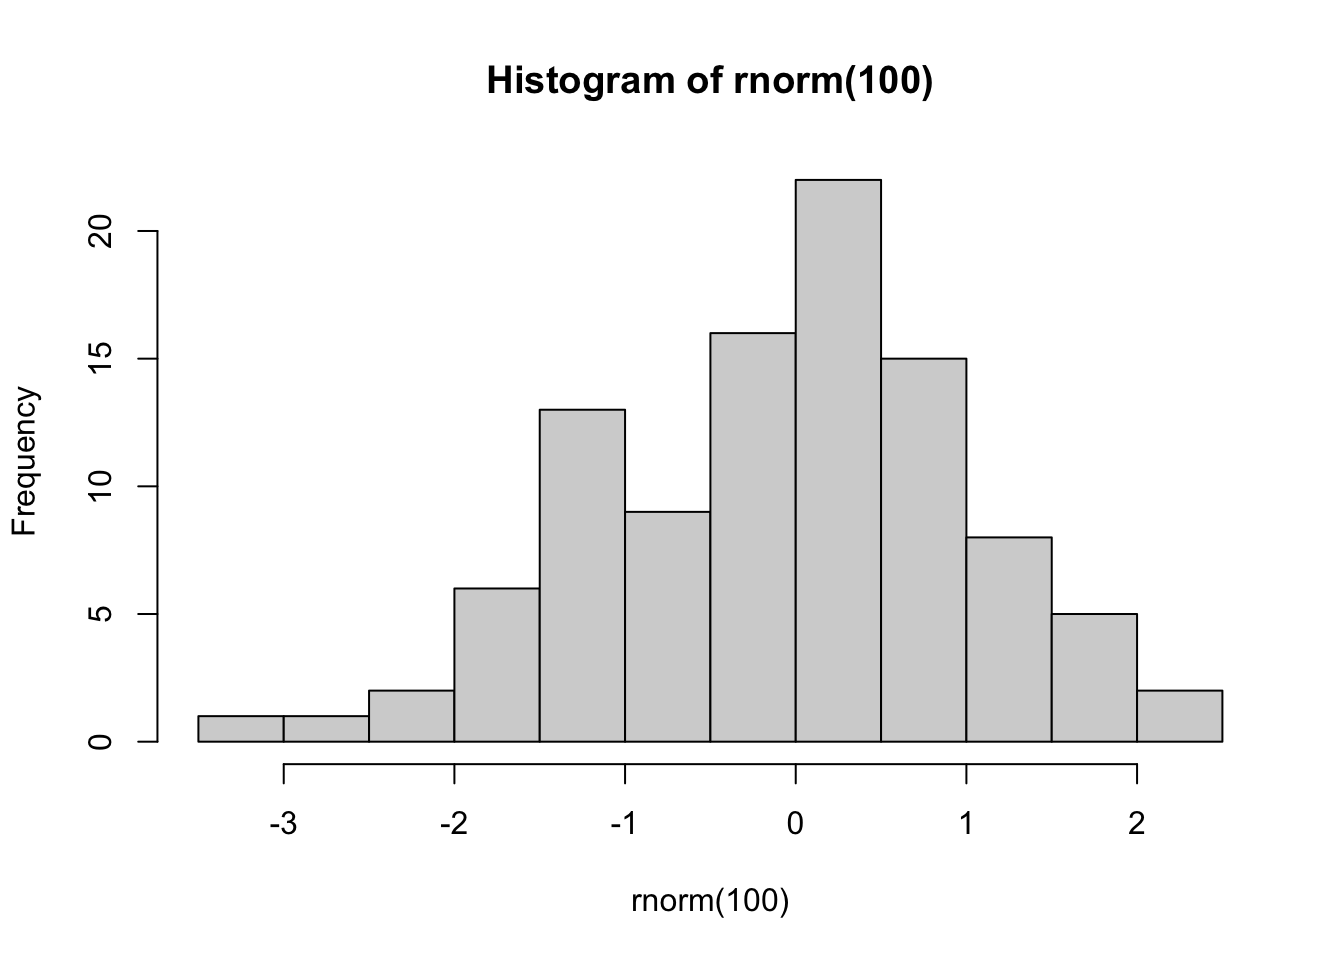
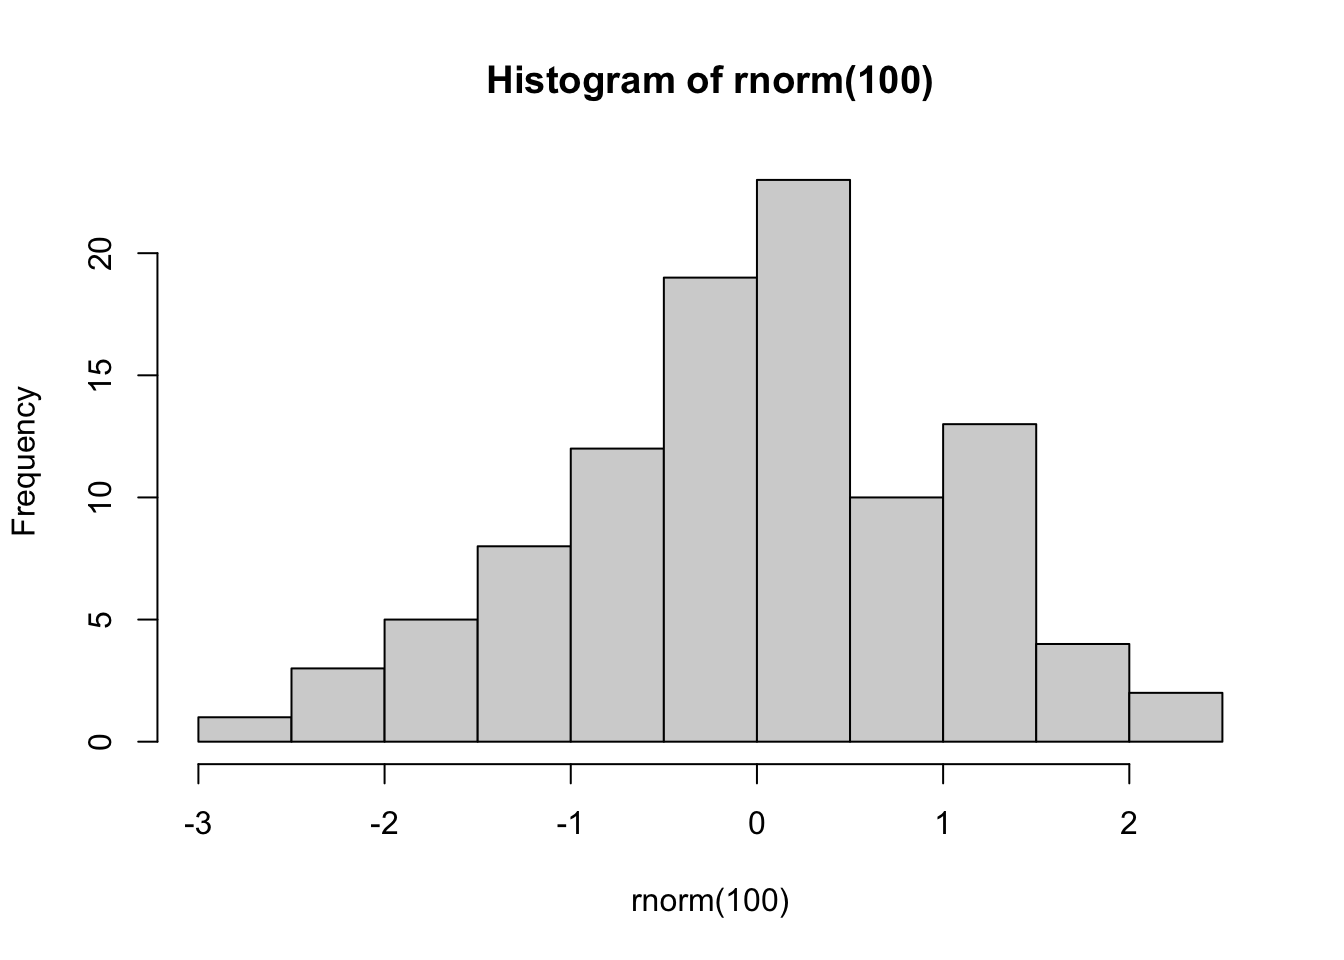
final

diff --git a/Quarto.html b/Quarto.html
@@ -124,23 +124,23 @@ pre > code.sourceCode > span > a:first-child::before { text-decoration: underlin
 <span id="cb3-7"><a href="#cb3-7" aria-hidden="true" tabindex="-1"></a>        <span class="fu">c</span>(City, Rank, Happiness_levels, Outdoor_activities,</span>
 <span id="cb3-8"><a href="#cb3-8" aria-hidden="true" tabindex="-1"></a>                          YLE))</span></code></pre></div><button title="Copy to Clipboard" class="code-copy-button"><i class="bi"></i></button></div>
 <div class="cell-output-display">
-<div id="gwxykqjqkq" style="padding-left:0px;padding-right:0px;padding-top:10px;padding-bottom:10px;overflow-x:auto;overflow-y:auto;width:auto;height:auto;">
-<style>#gwxykqjqkq table {
+<div id="nafjxvjnsw" style="padding-left:0px;padding-right:0px;padding-top:10px;padding-bottom:10px;overflow-x:auto;overflow-y:auto;width:auto;height:auto;">
+<style>#nafjxvjnsw table {
   font-family: system-ui, 'Segoe UI', Roboto, Helvetica, Arial, sans-serif, 'Apple Color Emoji', 'Segoe UI Emoji', 'Segoe UI Symbol', 'Noto Color Emoji';
   -webkit-font-smoothing: antialiased;
   -moz-osx-font-smoothing: grayscale;
 }
 
-#gwxykqjqkq thead, #gwxykqjqkq tbody, #gwxykqjqkq tfoot, #gwxykqjqkq tr, #gwxykqjqkq td, #gwxykqjqkq th {
+#nafjxvjnsw thead, #nafjxvjnsw tbody, #nafjxvjnsw tfoot, #nafjxvjnsw tr, #nafjxvjnsw td, #nafjxvjnsw th {
   border-style: none;
 }
 
-#gwxykqjqkq p {
+#nafjxvjnsw p {
   margin: 0;
   padding: 0;
 }
 
-#gwxykqjqkq .gt_table {
+#nafjxvjnsw .gt_table {
   display: table;
   border-collapse: collapse;
   line-height: normal;
@@ -166,12 +166,12 @@ pre > code.sourceCode > span > a:first-child::before { text-decoration: underlin
   border-left-color: #D3D3D3;
 }
 
-#gwxykqjqkq .gt_caption {
+#nafjxvjnsw .gt_caption {
   padding-top: 4px;
   padding-bottom: 4px;
 }
 
-#gwxykqjqkq .gt_title {
+#nafjxvjnsw .gt_title {
   color: #333333;
   font-size: 125%;
   font-weight: initial;
@@ -183,7 +183,7 @@ pre > code.sourceCode > span > a:first-child::before { text-decoration: underlin
   border-bottom-width: 0;
 }
 
-#gwxykqjqkq .gt_subtitle {
+#nafjxvjnsw .gt_subtitle {
   color: #333333;
   font-size: 85%;
   font-weight: initial;
@@ -195,7 +195,7 @@ pre > code.sourceCode > span > a:first-child::before { text-decoration: underlin
   border-top-width: 0;
 }
 
-#gwxykqjqkq .gt_heading {
+#nafjxvjnsw .gt_heading {
   background-color: #FFFFFF;
   text-align: center;
   border-bottom-color: #FFFFFF;
@@ -207,13 +207,13 @@ pre > code.sourceCode > span > a:first-child::before { text-decoration: underlin
   border-right-color: #D3D3D3;
 }
 
-#gwxykqjqkq .gt_bottom_border {
+#nafjxvjnsw .gt_bottom_border {
   border-bottom-style: solid;
   border-bottom-width: 2px;
   border-bottom-color: #D3D3D3;
 }
 
-#gwxykqjqkq .gt_col_headings {
+#nafjxvjnsw .gt_col_headings {
   border-top-style: solid;
   border-top-width: 2px;
   border-top-color: #D3D3D3;
@@ -228,7 +228,7 @@ pre > code.sourceCode > span > a:first-child::before { text-decoration: underlin
   border-right-color: #D3D3D3;
 }
 
-#gwxykqjqkq .gt_col_heading {
+#nafjxvjnsw .gt_col_heading {
   color: #333333;
   background-color: #FFFFFF;
   font-size: 100%;
@@ -248,7 +248,7 @@ pre > code.sourceCode > span > a:first-child::before { text-decoration: underlin
   overflow-x: hidden;
 }
 
-#gwxykqjqkq .gt_column_spanner_outer {
+#nafjxvjnsw .gt_column_spanner_outer {
   color: #333333;
   background-color: #FFFFFF;
   font-size: 100%;
@@ -260,15 +260,15 @@ pre > code.sourceCode > span > a:first-child::before { text-decoration: underlin
   padding-right: 4px;
 }
 
-#gwxykqjqkq .gt_column_spanner_outer:first-child {
+#nafjxvjnsw .gt_column_spanner_outer:first-child {
   padding-left: 0;
 }
 
-#gwxykqjqkq .gt_column_spanner_outer:last-child {
+#nafjxvjnsw .gt_column_spanner_outer:last-child {
   padding-right: 0;
 }
 
-#gwxykqjqkq .gt_column_spanner {
+#nafjxvjnsw .gt_column_spanner {
   border-bottom-style: solid;
   border-bottom-width: 2px;
   border-bottom-color: #D3D3D3;
@@ -280,11 +280,11 @@ pre > code.sourceCode > span > a:first-child::before { text-decoration: underlin
   width: 100%;
 }
 
-#gwxykqjqkq .gt_spanner_row {
+#nafjxvjnsw .gt_spanner_row {
   border-bottom-style: hidden;
 }
 
-#gwxykqjqkq .gt_group_heading {
+#nafjxvjnsw .gt_group_heading {
   padding-top: 8px;
   padding-bottom: 8px;
   padding-left: 5px;
@@ -310,7 +310,7 @@ pre > code.sourceCode > span > a:first-child::before { text-decoration: underlin
   text-align: left;
 }
 
-#gwxykqjqkq .gt_empty_group_heading {
+#nafjxvjnsw .gt_empty_group_heading {
   padding: 0.5px;
   color: #333333;
   background-color: #FFFFFF;
@@ -325,15 +325,15 @@ pre > code.sourceCode > span > a:first-child::before { text-decoration: underlin
   vertical-align: middle;
 }
 
-#gwxykqjqkq .gt_from_md > :first-child {
+#nafjxvjnsw .gt_from_md > :first-child {
   margin-top: 0;
 }
 
-#gwxykqjqkq .gt_from_md > :last-child {
+#nafjxvjnsw .gt_from_md > :last-child {
   margin-bottom: 0;
 }
 
-#gwxykqjqkq .gt_row {
+#nafjxvjnsw .gt_row {
   padding-top: 8px;
   padding-bottom: 8px;
   padding-left: 5px;
@@ -352,7 +352,7 @@ pre > code.sourceCode > span > a:first-child::before { text-decoration: underlin
   overflow-x: hidden;
 }
 
-#gwxykqjqkq .gt_stub {
+#nafjxvjnsw .gt_stub {
   color: #333333;
   background-color: #FFFFFF;
   font-size: 100%;
@@ -365,7 +365,7 @@ pre > code.sourceCode > span > a:first-child::before { text-decoration: underlin
   padding-right: 5px;
 }
 
-#gwxykqjqkq .gt_stub_row_group {
+#nafjxvjnsw .gt_stub_row_group {
   color: #333333;
   background-color: #FFFFFF;
   font-size: 100%;
@@ -379,15 +379,15 @@ pre > code.sourceCode > span > a:first-child::before { text-decoration: underlin
   vertical-align: top;
 }
 
-#gwxykqjqkq .gt_row_group_first td {
+#nafjxvjnsw .gt_row_group_first td {
   border-top-width: 2px;
 }
 
-#gwxykqjqkq .gt_row_group_first th {
+#nafjxvjnsw .gt_row_group_first th {
   border-top-width: 2px;
 }
 
-#gwxykqjqkq .gt_summary_row {
+#nafjxvjnsw .gt_summary_row {
   color: #333333;
   background-color: #FFFFFF;
   text-transform: inherit;
@@ -397,16 +397,16 @@ pre > code.sourceCode > span > a:first-child::before { text-decoration: underlin
   padding-right: 5px;
 }
 
-#gwxykqjqkq .gt_first_summary_row {
+#nafjxvjnsw .gt_first_summary_row {
   border-top-style: solid;
   border-top-color: #D3D3D3;
 }
 
-#gwxykqjqkq .gt_first_summary_row.thick {
+#nafjxvjnsw .gt_first_summary_row.thick {
   border-top-width: 2px;
 }
 
-#gwxykqjqkq .gt_last_summary_row {
+#nafjxvjnsw .gt_last_summary_row {
   padding-top: 8px;
   padding-bottom: 8px;
   padding-left: 5px;
@@ -416,7 +416,7 @@ pre > code.sourceCode > span > a:first-child::before { text-decoration: underlin
   border-bottom-color: #D3D3D3;
 }
 
-#gwxykqjqkq .gt_grand_summary_row {
+#nafjxvjnsw .gt_grand_summary_row {
   color: #333333;
   background-color: #FFFFFF;
   text-transform: inherit;
@@ -426,7 +426,7 @@ pre > code.sourceCode > span > a:first-child::before { text-decoration: underlin
   padding-right: 5px;
 }
 
-#gwxykqjqkq .gt_first_grand_summary_row {
+#nafjxvjnsw .gt_first_grand_summary_row {
   padding-top: 8px;
   padding-bottom: 8px;
   padding-left: 5px;
@@ -436,7 +436,7 @@ pre > code.sourceCode > span > a:first-child::before { text-decoration: underlin
   border-top-color: #D3D3D3;
 }
 
-#gwxykqjqkq .gt_last_grand_summary_row_top {
+#nafjxvjnsw .gt_last_grand_summary_row_top {
   padding-top: 8px;
   padding-bottom: 8px;
   padding-left: 5px;
@@ -446,11 +446,11 @@ pre > code.sourceCode > span > a:first-child::before { text-decoration: underlin
   border-bottom-color: #D3D3D3;
 }
 
-#gwxykqjqkq .gt_striped {
+#nafjxvjnsw .gt_striped {
   background-color: rgba(128, 128, 128, 0.05);
 }
 
-#gwxykqjqkq .gt_table_body {
+#nafjxvjnsw .gt_table_body {
   border-top-style: solid;
   border-top-width: 2px;
   border-top-color: #D3D3D3;
@@ -459,7 +459,7 @@ pre > code.sourceCode > span > a:first-child::before { text-decoration: underlin
   border-bottom-color: #D3D3D3;
 }
 
-#gwxykqjqkq .gt_footnotes {
+#nafjxvjnsw .gt_footnotes {
   color: #333333;
   background-color: #FFFFFF;
   border-bottom-style: none;
@@ -473,7 +473,7 @@ pre > code.sourceCode > span > a:first-child::before { text-decoration: underlin
   border-right-color: #D3D3D3;
 }
 
-#gwxykqjqkq .gt_footnote {
+#nafjxvjnsw .gt_footnote {
   margin: 0px;
   font-size: 90%;
   padding-top: 4px;
@@ -482,7 +482,7 @@ pre > code.sourceCode > span > a:first-child::before { text-decoration: underlin
   padding-right: 5px;
 }
 
-#gwxykqjqkq .gt_sourcenotes {
+#nafjxvjnsw .gt_sourcenotes {
   color: #333333;
   background-color: #FFFFFF;
   border-bottom-style: none;
@@ -496,7 +496,7 @@ pre > code.sourceCode > span > a:first-child::before { text-decoration: underlin
   border-right-color: #D3D3D3;
 }
 
-#gwxykqjqkq .gt_sourcenote {
+#nafjxvjnsw .gt_sourcenote {
   font-size: 90%;
   padding-top: 4px;
   padding-bottom: 4px;
@@ -504,72 +504,72 @@ pre > code.sourceCode > span > a:first-child::before { text-decoration: underlin
   padding-right: 5px;
 }
 
-#gwxykqjqkq .gt_left {
+#nafjxvjnsw .gt_left {
   text-align: left;
 }
 
-#gwxykqjqkq .gt_center {
+#nafjxvjnsw .gt_center {
   text-align: center;
 }
 
-#gwxykqjqkq .gt_right {
+#nafjxvjnsw .gt_right {
   text-align: right;
   font-variant-numeric: tabular-nums;
 }
 
-#gwxykqjqkq .gt_font_normal {
+#nafjxvjnsw .gt_font_normal {
   font-weight: normal;
 }
 
-#gwxykqjqkq .gt_font_bold {
+#nafjxvjnsw .gt_font_bold {
   font-weight: bold;
 }
 
-#gwxykqjqkq .gt_font_italic {
+#nafjxvjnsw .gt_font_italic {
   font-style: italic;
 }
 
-#gwxykqjqkq .gt_super {
+#nafjxvjnsw .gt_super {
   font-size: 65%;
 }
 
-#gwxykqjqkq .gt_footnote_marks {
+#nafjxvjnsw .gt_footnote_marks {
   font-size: 75%;
   vertical-align: 0.4em;
   position: initial;
 }
 
-#gwxykqjqkq .gt_asterisk {
+#nafjxvjnsw .gt_asterisk {
   font-size: 100%;
   vertical-align: 0;
 }
 
-#gwxykqjqkq .gt_indent_1 {
+#nafjxvjnsw .gt_indent_1 {
   text-indent: 5px;
 }
 
-#gwxykqjqkq .gt_indent_2 {
+#nafjxvjnsw .gt_indent_2 {
   text-indent: 10px;
 }
 
-#gwxykqjqkq .gt_indent_3 {
+#nafjxvjnsw .gt_indent_3 {
   text-indent: 15px;
 }
 
-#gwxykqjqkq .gt_indent_4 {
+#nafjxvjnsw .gt_indent_4 {
   text-indent: 20px;
 }
 
-#gwxykqjqkq .gt_indent_5 {
+#nafjxvjnsw .gt_indent_5 {
   text-indent: 25px;
 }
 
-#gwxykqjqkq .katex-display {
+#nafjxvjnsw .katex-display {
   display: inline-flex !important;
   margin-bottom: 0.75em !important;
 }
 
-#gwxykqjqkq div.Reactable > div.rt-table > div.rt-thead > div.rt-tr.rt-tr-group-header > div.rt-th-group:after {
+#nafjxvjnsw div.Reactable > div.rt-table > div.rt-thead > div.rt-tr.rt-tr-group-header > div.rt-th-group:after {
   height: 0px !important;
 }
 </style>
@@ -1327,6 +1327,13 @@ Table&nbsp;2: Linear regression
 <span id="cb7-5"><a href="#cb7-5" aria-hidden="true" tabindex="-1"></a>)</span></code></pre></div><button title="Copy to Clipboard" class="code-copy-button"><i class="bi"></i></button></div>
 </div>
 <p>There were 44 cities, with a mean of ife expectancy 78.175 and a mean of happiness score of 6.435</p>
+<div class="cell">
+<div class="code-copy-outer-scaffold"><div class="sourceCode cell-code" id="cb8"><pre class="sourceCode r code-with-copy"><code class="sourceCode r"><span id="cb8-1"><a href="#cb8-1" aria-hidden="true" tabindex="-1"></a><span class="fu">inline_text</span>(rank_tbl, <span class="at">variable=</span> <span class="st">"YLE"</span>)</span></code></pre></div><button title="Copy to Clipboard" class="code-copy-button"><i class="bi"></i></button></div>
+<div class="cell-output cell-output-stdout">
+<pre><code>[1] "-0.78 (95% CI -1.5, -0.06; p=0.034)"</code></pre>
+</div>
+</div>
+<p>Life expectancy was not statistically significant with the city rank <code>inline_text(rank_tbl, variable= "YLE")</code></p>
 <p>A brief description of the data, including its source</p>
 
 </main>
